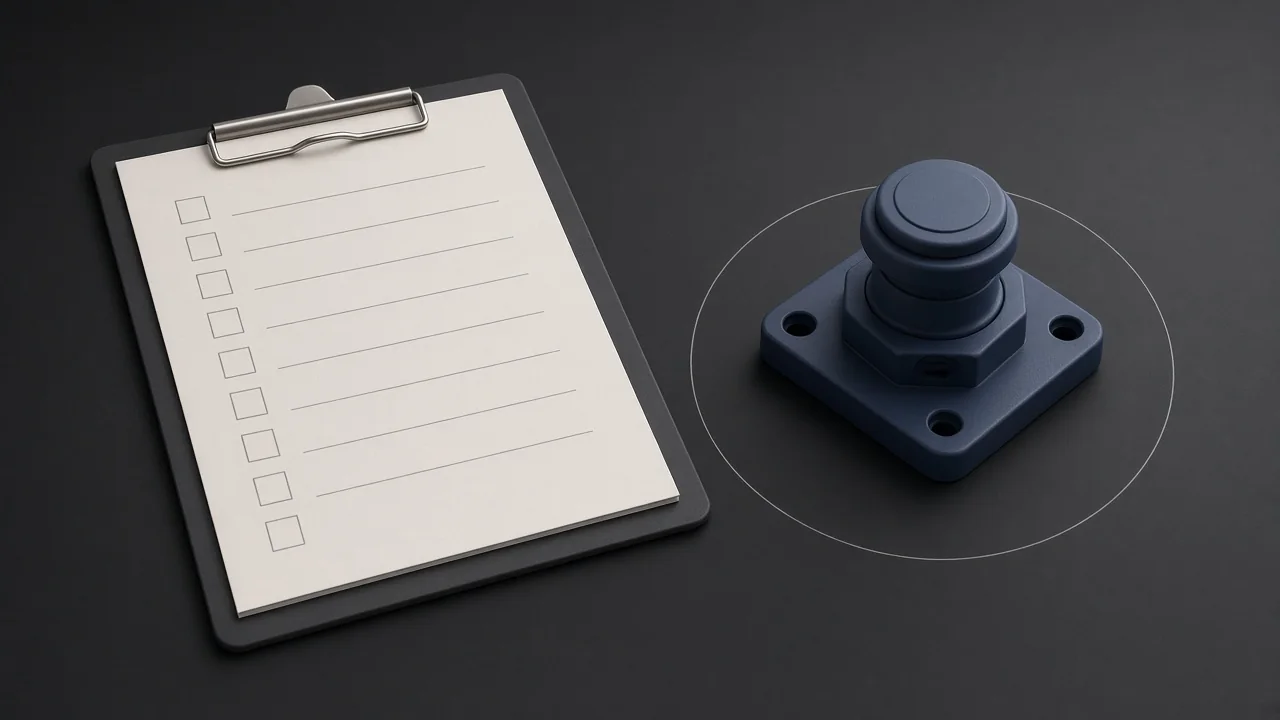
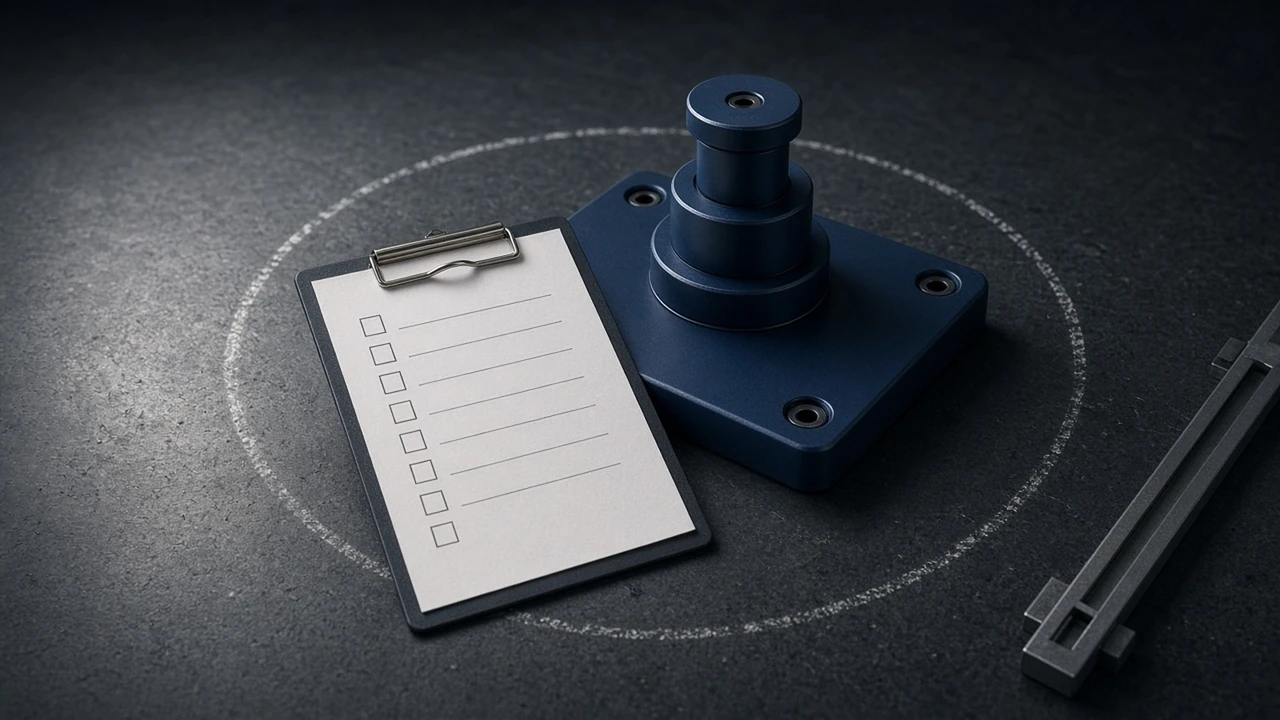
Replace Daily SEO #19 xArm checklist images with ChatGPT regen
Overwrite the live EN resource editorial and method-diagram binaries in place. Prior LIVE images were weak remakes from missing attachments. Page copy, titles, and meta are unchanged; og:image still points at the 1280 WebP.

diff --git a/docs/strategy/unique-editorial-image-provenance.md b/docs/strategy/unique-editorial-image-provenance.md
@@ -92,11 +92,11 @@ Constraints: No readable text, no logos, no watermark, no people or hands, no ad
 ## ufactory-xarm-production-line-checklist (Daily SEO #19)
 
 - Date: 2026-09-21
-- Source: Attached hero still plus two method diagrams for the overseas production-line checklist; concept only
+- Source: ChatGPT regen 2026-09-21 replacing prior remake; attached hero still plus two method diagrams for the overseas production-line checklist; concept only
 - Original: `web/assets/editorial/originals/ufactory-xarm-production-line-checklist.jpg` (hero.jpg) and matching `.webp`
 - Responsive OG/hero: `web/assets/editorial/ufactory-xarm-production-line-checklist-640.webp` and `web/assets/editorial/ufactory-xarm-production-line-checklist-1280.webp`
 - Inline method diagrams: `web/assets/resources/ufactory-xarm-production-line-checklist-steps.webp` and `web/assets/resources/ufactory-xarm-production-line-checklist-owners.webp`
-- English alt (authoritative): Checklist clipboard beside compact robot-arm base plate — readiness method, no fake certificates
+- English alt (authoritative): Dark workcell desk: blank readiness checklist beside a bolted arm base plate and faint cell boundary — production-line freeze method, no certificates
 
 ## ai-procurement-checklist (REFRESH-04)
 

diff --git a/docs/strategy/editorial-image-provenance.md b/docs/strategy/editorial-image-provenance.md
@@ -53,7 +53,7 @@ Use case: product-mockup. Asset type: premium editorial landscape image for an e
 
 ## ufactory-xarm-production-line-checklist (Daily SEO #19)
 
-Concept only — not a UFACTORY SKU photograph, certificate, partnership mark, or production-line evidence. Hero still plus two method diagrams. Responsive OG assets follow the 640 / 1280 WebP convention. Inline diagrams live under `web/assets/resources/`.
+ChatGPT regen 2026-09-21 replacing prior remake. Concept only — not a UFACTORY SKU photograph, certificate, partnership mark, or production-line evidence. Hero still plus two method diagrams. Responsive OG assets follow the 640 / 1280 WebP convention. Inline diagrams live under `web/assets/resources/`.
 
 ## china-ai-export-playbook (REFRESH-05)
 
